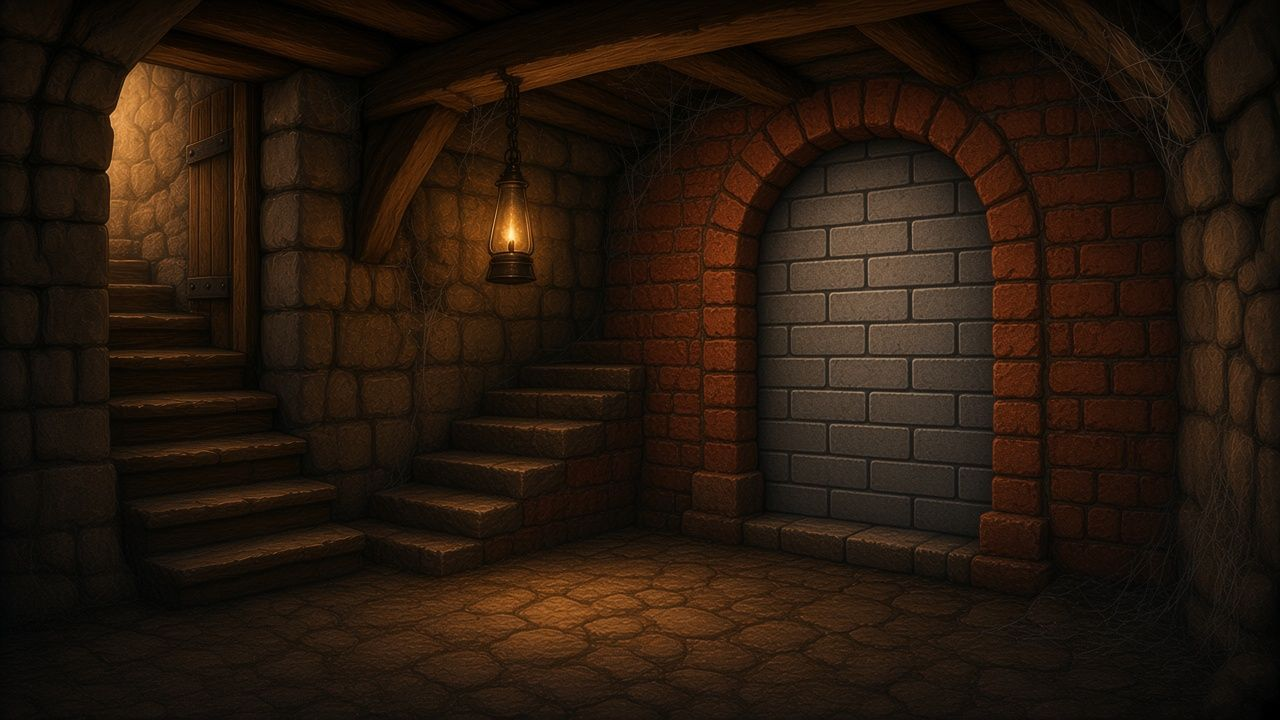
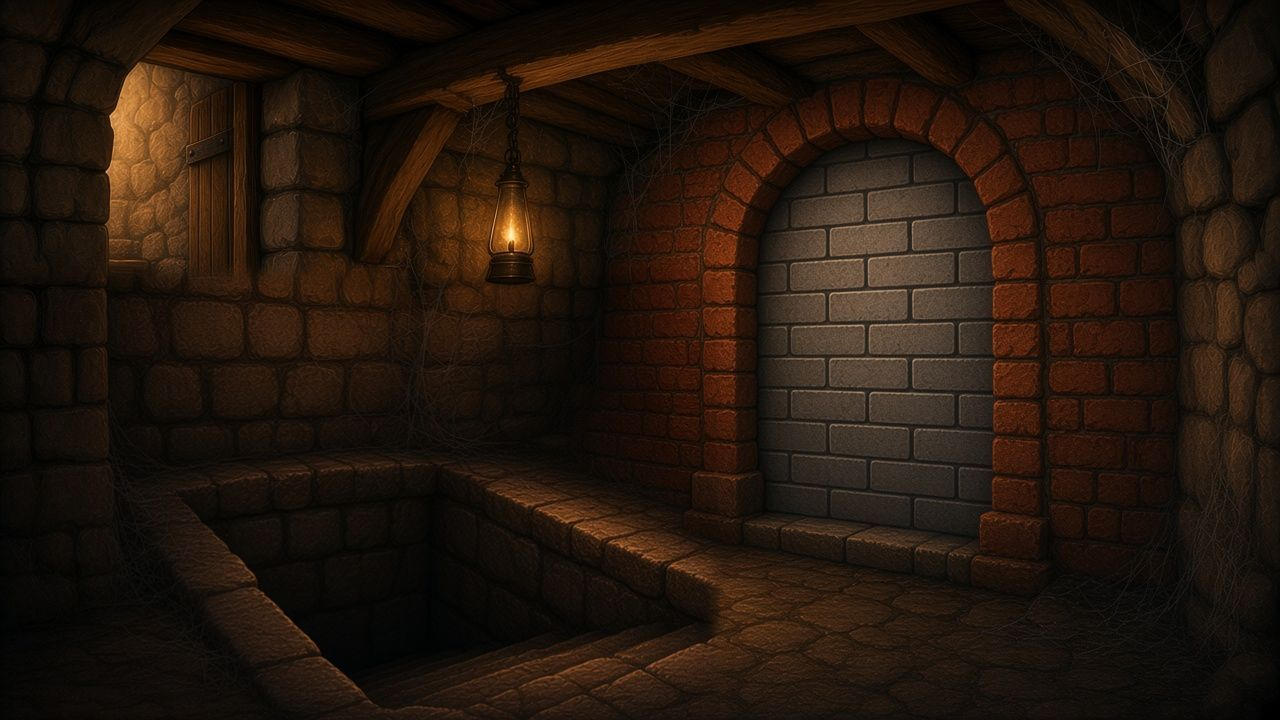
Repaint five scenes to match their text
- Reliquary: cards only in the empty niches
- Writing room: fourth desk left clear
- Weir: four drains, rail half missing
- Chapel: crude sun-disc
- Bricked arch: old stair now goes down to the Low Court (hotspot moved)

Targeted edits composited back onto the existing paintings so other hotspots stay put.

diff --git a/src/assets/js/scenes-data.js b/src/assets/js/scenes-data.js
@@ -4630,8 +4630,8 @@ window.RIVERMARK_SCENES = {
         "icon": "↩"
       },
       "low_court": {
-        "x": 18,
-        "y": 46,
+        "x": 26,
+        "y": 80,
         "icon": "↓"
       }
     },
